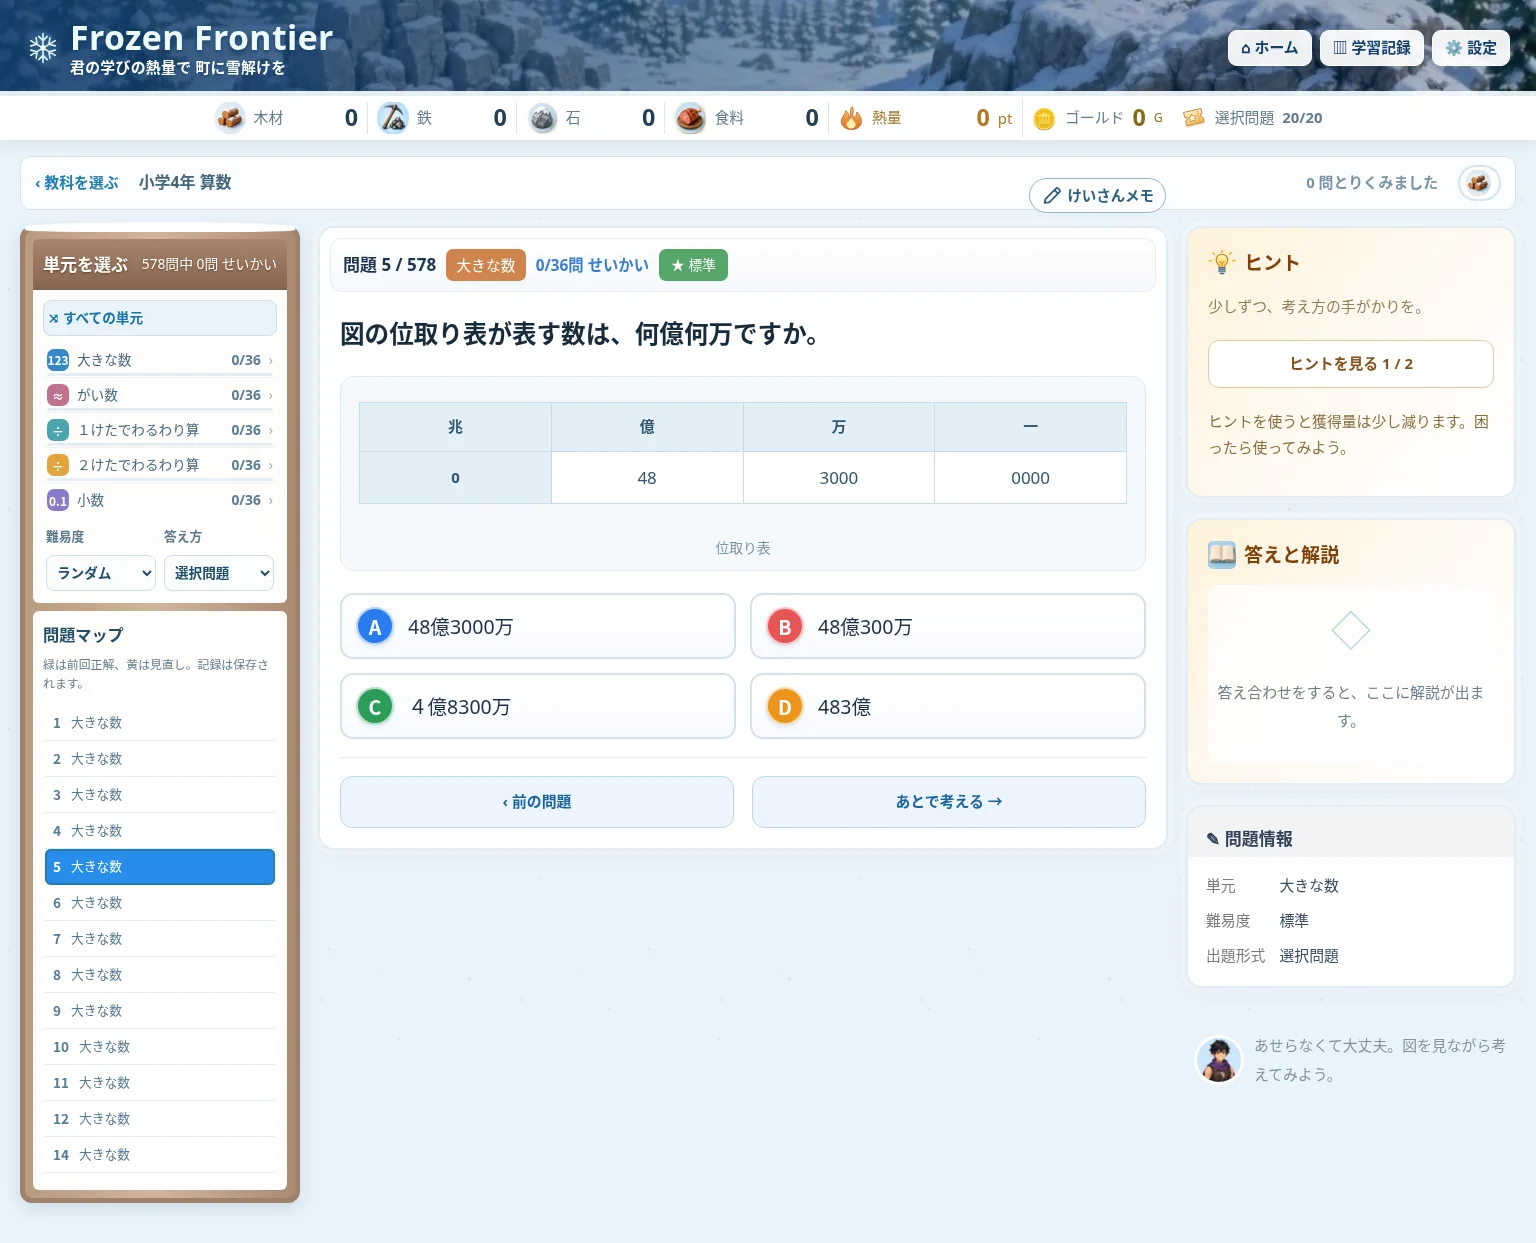
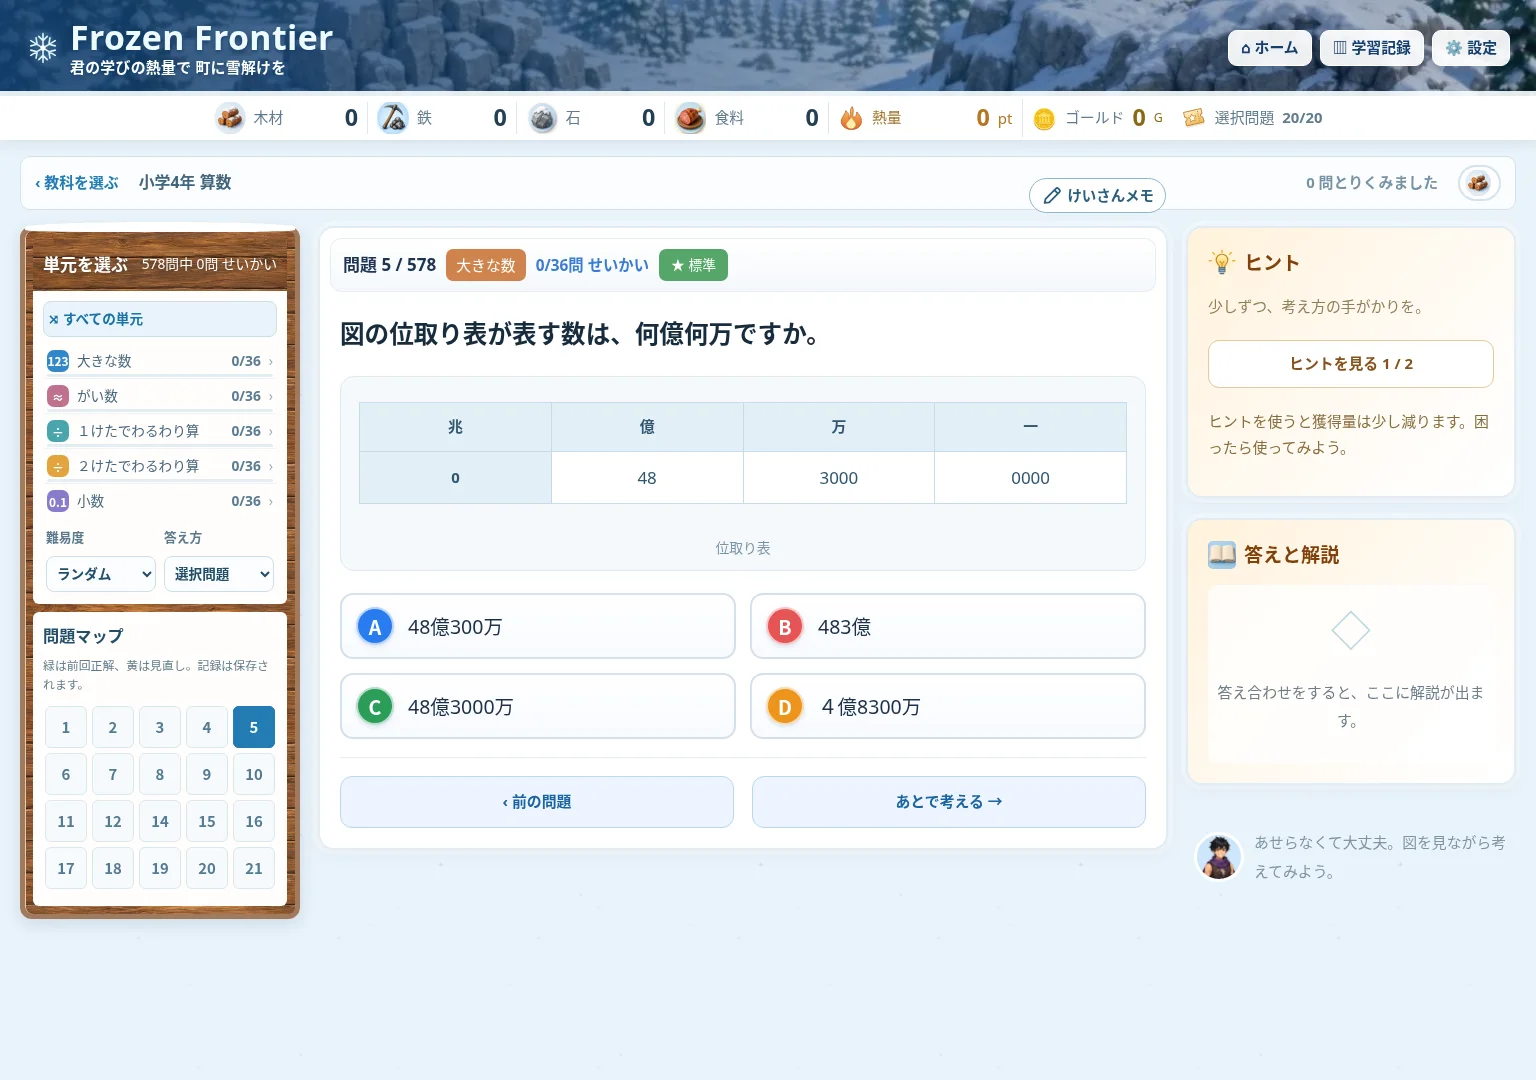
Keep calendar question map and add painted wood texture

diff --git a/codex-prototypes/homepage/design.css b/codex-prototypes/homepage/design.css
@@ -146,7 +146,7 @@ body[data-screen="quiz"] .masthead-link{background:#ffffffeb;color:#173f6d;borde
 body[data-screen="quiz"] .lesson-heading{background:#ffffffcf;border:1px solid #d1e2ef;border-radius:10px;padding:8px 14px;margin:4px 0 16px}
 body[data-screen="quiz"] main#screen{max-width:1680px;padding:12px 20px 40px}
 .replica-lesson{gap:18px;align-items:start}
-.replica-lesson .question-card,.replica-lesson .hint-card,.replica-lesson .explanation-card,.replica-question-info{border:2px solid #e0edf5;border-radius:16px;box-shadow:0 4px 15px #295c7e12,0 0 0 5px #ffffff70}
+.replica-lesson .question-card,.replica-lesson .hint-card,.replica-lesson .explanation-card{border:2px solid #e0edf5;border-radius:16px;box-shadow:0 4px 15px #295c7e12,0 0 0 5px #ffffff70}
 .replica-lesson .question-card{padding:20px;background:#fff}
 .replica-lesson .question-meta{margin:-10px -10px 18px;padding:10px 12px;border:1px solid #e4edf3;border-radius:11px;background:linear-gradient(#fff,#f4f8fc);gap:10px}
 .replica-lesson .question-badge{background:transparent;color:#1e3552;padding:3px 0;font-size:1rem}
@@ -174,9 +174,6 @@ body[data-screen="quiz"] main#screen{max-width:1680px;padding:12px 20px 40px}
 .replica-lesson .explanation-text{color:#27374a;line-height:1.9;background:#ffffffb8;padding:10px;border-radius:8px;margin-bottom:0}
 .replica-lesson .answer-value{background:#ffebc9;border-radius:8px;padding:8px 12px;color:#5c3c12;font-size:1.4rem;margin-top:5px}
 .replica-lesson .locked-explanation{border-radius:9px;background:#ffffffb8;color:#6d7e8a;padding:14px 8px}
-.replica-question-info{padding:18px;background:linear-gradient(#f1f3f5 0 50px,#fff 50px);font-size:.875rem}
-.replica-question-info h2{color:#314258!important;font-size:1rem!important;margin-bottom:20px!important}
-.replica-question-info dl{display:grid;grid-template-columns:auto 1fr;gap:10px 14px;margin:0;line-height:1.7}.replica-question-info dt{color:#7a7a79}.replica-question-info dd{margin:0;color:#384d60}
 .replica-lesson .lesson-left{border:5px solid #a0826e;border-radius:12px;padding:8px;background:linear-gradient(90deg,#b99a7f,#d1b59b 48%,#ab8a71);box-shadow:0 5px 16px #294e7026;position:relative}
 .replica-lesson .lesson-left:before{content:"";position:absolute;top:-9px;left:0;right:0;height:10px;border-radius:70% 70% 30% 30%;background:#fff;pointer-events:none}
 .replica-lesson .lesson-sidebar,.replica-lesson .question-index{border:0;background:#fffdfb;box-shadow:none;border-radius:6px;padding:12px 10px}
@@ -187,10 +184,10 @@ body[data-screen="quiz"] main#screen{max-width:1680px;padding:12px 20px 40px}
 .replica-lesson .unit-row{min-height:35px;font-size:.8rem;padding:6px 4px}.replica-lesson .unit-name{font-size:.8rem}.replica-lesson .unit-icon{min-width:22px;height:22px;font-size:.7rem}
 .replica-lesson .side-settings{grid-template-columns:1fr 1fr;gap:8px}.replica-lesson .rn-field{font-size:.75rem}.replica-lesson .rn-field select{padding:6px;font-size:.8rem;min-height:36px}
 .replica-lesson .question-index{margin-top:8px}.replica-lesson .question-index h2{font-size:.95rem}.replica-lesson .question-index>p{font-size:.7rem;line-height:1.6;margin:6px 0 10px}
-.replica-lesson .index-grid{grid-template-columns:1fr;gap:0;max-height:44vh;scrollbar-width:thin}
-.replica-lesson .index-item{display:flex;align-items:center;gap:10px;aspect-ratio:auto;min-height:36px;padding:6px 8px;border:0;border-bottom:1px solid #e3eaf1;border-radius:0;background:#fff;font-size:.8rem;text-align:left}
-.replica-lesson .index-item.current{background:#288ce9;color:#fff;border-radius:6px}.replica-lesson .index-item.solved:not(.current){background:#edf7ef;color:#337550}.replica-lesson .index-item.missed:not(.current){background:#fff5e7;color:#8f6633}
-.replica-index-topic{font-family:var(--font);font-size:.75rem;line-height:1.5;font-weight:500}
 @media(min-width:1000px){.replica-lesson{grid-template-columns:clamp(200px,20vw,280px) minmax(0,1fr) clamp(240px,23vw,330px)}}
 @media(min-width:761px) and (max-width:999px){.replica-lesson{grid-template-columns:190px minmax(0,1fr)}.replica-lesson .lesson-left{display:block;grid-column:1;grid-row:1 / 3}.replica-lesson .question-card{grid-column:2}.replica-lesson .lesson-help{grid-column:2;display:grid;grid-template-columns:1fr}.replica-lesson .lesson-answers:has(.answer-option){grid-template-columns:1fr}.replica-lesson .question-card{padding:16px}.replica-lesson .lesson-question{font-size:1.2rem}}
 @media(max-width:760px){body[data-screen="quiz"] .masthead{min-height:60px;padding:10px 12px}body[data-screen="quiz"] .brand{font-size:1.1rem}body[data-screen="quiz"] main#screen{padding:10px 12px 30px}.replica-lesson .lesson-left{display:none}.replica-lesson .question-card{padding:15px}.replica-lesson .lesson-question{font-size:1.15rem}.replica-lesson .lesson-answers:has(.answer-option){grid-template-columns:1fr;gap:9px}.replica-lesson .answer-option{min-height:54px;font-size:1rem}.replica-lesson .option-mark{width:30px;height:30px;font-size:1rem}.replica-lesson .story-visual.scenic>img{height:240px}.replica-lesson .lesson-meta{flex-wrap:wrap}.replica-lesson .lesson-help{gap:14px}.replica-lesson .hint-card,.replica-lesson .explanation-card{padding:16px}}
+
+/* 手描きの木目素材。番号マップの形と操作は本体を維持する。 */
+.replica-lesson .lesson-left{background:#aa8060 url('lesson-wood.webp') center/280px auto;border-color:#a17a5d;box-shadow:inset 1px 0 #e7c9a4,0 5px 16px #294e7026}
+.replica-lesson .side-title{background:linear-gradient(#5d371526,#4d2e1c44),url('lesson-wood.webp') center 20%/280px auto;border-bottom:1px solid #664c3955}

diff --git a/codex-prototypes/homepage/design.js b/codex-prototypes/homepage/design.js
@@ -88,29 +88,13 @@
   };
 })(this);
 
-// 学習ページの比較用レイアウト。既存の回答・ヒント・一覧ボタンをそのまま使う。
+// 学習ページの装飾だけを追加。問題マップは本体のカレンダー調をそのまま使う。
 (function(root){
  'use strict';
- var FF=root.FF,U=FF.ui,E=U.el,render=U.screens.quiz.render;
+ var U=root.FF.ui,render=U.screens.quiz.render;
  U.screens.quiz.render=function(main){
   render(main);
-  var layout=main.querySelector('.workbench'),card=main.querySelector('.question-card');
-  if(!layout||!card)return;
-  layout.classList.add('replica-lesson');
-  var ses=FF.app.session,it=ses&&ses.items&&ses.items[ses.currentId],q=it&&it.attempt.question;
-  if(!q)return;
-  // 元の一覧ボタンのイベントと状態を保ち、単元名を添えて探しやすくする。
-  var pool=FF.curriculum.pool(FF.app.bank,ses.sel),buttons=main.querySelectorAll('.index-item');
-  Array.prototype.forEach.call(buttons,function(b,i){var item=pool[i];if(!item)return;
-   var unit=FF.curriculum.unit(item.subject,item.gradeLevel,item.unit);
-   b.appendChild(E('span',{class:'replica-index-topic',text:unit?unit.name:U.plain(FF.learning.subjectName(item.subject,item.gradeLevel))}));
-   b.title=U.plain(item.question);
-  });
-  var help=main.querySelector('.lesson-help');if(!help)return;
-  var unit=FF.curriculum.unit(q.subject,q.gradeLevel,q.unit);
-  var info=E('section',{class:'replica-question-info'},[E('h2',{text:'✎ 問題情報'})]);
-  var dl=E('dl');
-  [['単元',unit?unit.name:U.plain(FF.learning.subjectName(q.subject,q.gradeLevel))],['難易度',U.plain(U.nameOf(FF.defs.DIFFICULTIES,q.difficulty))],['出題形式',q.answerType==='choice'?'選択問題':'記述問題']].forEach(function(row){dl.appendChild(E('dt',{text:row[0]}));dl.appendChild(E('dd',{text:row[1]}));});
-  info.appendChild(dl);help.insertBefore(info,help.querySelector('.encourage'));
+  var layout=main.querySelector('.workbench');
+  if(layout)layout.classList.add('replica-lesson');
  };
 })(this);

diff --git a/codex-prototypes/homepage/README.md b/codex-prototypes/homepage/README.md
@@ -126,10 +126,18 @@ FF_TEST_ORIGIN=http://127.0.0.1:8772 FF_BROWSER_PATH=/usr/bin/chromium node test
 
 ## 参考画像に寄せた問題ページ
 
-学習ページを、雪景色のヘッダー・木枠の左サイドバー・中央の問題カード・暖色のヒント／解説カードという構成に整えました。1000px以上は3列、761〜999pxは2列、スマホは縦並びです。選択肢は広い画面では2列でA〜Dを色分けし、図は元の内容を保持して表示します。左の問題一覧には既存の単元名、右には既存データから単元・難易度・出題形式を添えています。
+学習ページを、雪景色のヘッダー・木枠の左サイドバー・中央の問題カード・暖色のヒント／解説カードという構成に整えました。1000px以上は3列、761〜999pxは2列、スマホは縦並びです。選択肢は広い画面では2列でA〜Dを色分けし、図は元の内容を保持して表示します。問題マップは元のカレンダー調（番号の5列グリッド）を維持し、「問題情報」の追加カードは置きません。
 
-ブランド名・キャッチコピー、出題・採点・ヒント・解説の解放条件・報酬・チケット・単元選択・問題移動・記述／手書き・計算メモの既存処理は共有したままです。選択問題は従来どおり選択時に採点し、参考画像にある別の「答え合わせ」ボタンは追加していません。新しい絵は生成せず、ヘッダーには既存の `field_lv1.jpg` を使います。
+ブランド名・キャッチコピー、出題・採点・ヒント・解説の解放条件・報酬・チケット・単元選択・問題移動・記述／手書き・計算メモの既存処理は共有したままです。選択問題は従来どおり選択時に採点し、参考画像にある別の「答え合わせ」ボタンは追加していません。ヘッダーには既存の `field_lv1.jpg` を使い、木枠には生成した `lesson-wood.webp` の木目を使います。
 
 `node tests/ui-lesson-replica.cjs` で390・768・1024・1536・1920pxの配置・横はみ出し・図の表示・タイトル維持、ヒント表示・正答／チケット処理・解説の解放・次の問題・問題一覧・条件変更・記述欄を確認。既存の比較用入口のテストも成功しています。
 
 ![問題ページのレイアウト](screenshots/lesson-layout.webp)
+
+
+### 木枠の画像素材
+
+`lesson-wood.webp` は、image_genで生成した木目を512×512・約58KBのWebPへ縮小したものです。静止したCSS背景として枠と見出しに共用し、文字・問題番号・ボタンは画像に焼き込まず既存のHTMLで表示します。カレンダー調の問題マップは本体の要素・5列の配置・正誤表示・クリック処理をそのまま使い、独自の問題情報カードは削除しました。
+
+生成プロンプト：
+> Create a single square seamless wood texture for the borders and title strip of a Japanese hand-painted anime fantasy learning game UI in a snowy frontier village. Material only, no composed scene. Front-facing orthographic warm medium walnut / weathered honey brown pine wooden planks, refined hand-painted grain, subtle shallow grooves and knots, tactile brushwork, cozy winter cabin craftsmanship, restrained contrast so small white Japanese labels will be readable over it. Plank grain predominantly horizontal. Soft diffuse daylight, gentle organic highlights, sophisticated illustrated JRPG menu material. Fill the entire canvas edge to edge with wood. Seamless tileable texture on all four edges. NO text, NO lettering, NO symbols, NO icons, NO nails or metal studs, NO objects, NO border, NO frame opening, NO empty central space, NO snow, NO scenery, NO vignette. Flat and usable as a repeating CSS texture, no perspective or cast shadows. 1024 by 1024 square.
